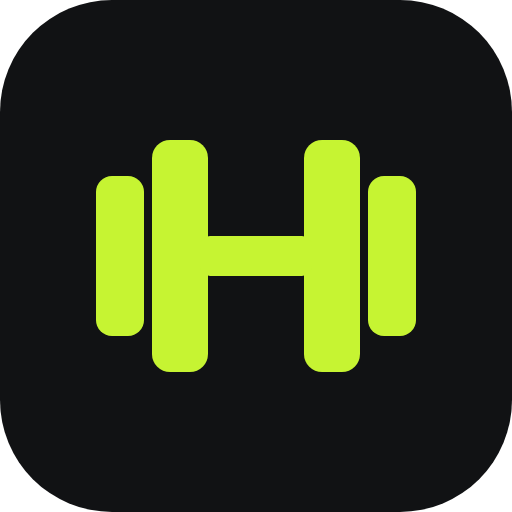
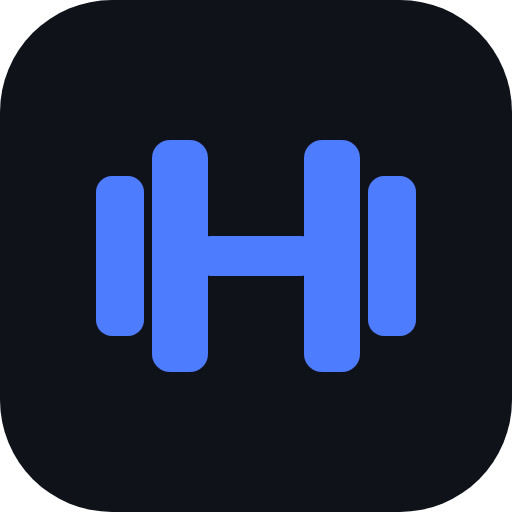
In-page confirm sheet, copy/paste backup, plate-blue theme
Claude-Session: https://claude.ai/code/session_01Xs3YzuM1HKXDTgwHDwdw5Y

Changed region(s): [[0.1875, 0.25, 0.8125, 0.75]]

diff --git a/index.html b/index.html
@@ -3,7 +3,7 @@
 <head>
 <meta charset="utf-8">
 <meta name="viewport" content="width=device-width, initial-scale=1, viewport-fit=cover">
-<meta name="theme-color" content="#111214">
+<meta name="theme-color" content="#0f1218">
 <meta name="apple-mobile-web-app-capable" content="yes">
 <meta name="mobile-web-app-capable" content="yes">
 <meta name="apple-mobile-web-app-status-bar-style" content="black-translucent">
@@ -13,27 +13,38 @@
 <link rel="icon" href="icon.svg" type="image/svg+xml">
 <link rel="apple-touch-icon" href="icon-192.png">
 <style>
+  /* Layout: one thumb-driven column, bottom tab bar, sets as big tap rows.
+     Accent borrows the blue of a 20 kg competition plate. Dark-first. */
   :root {
-    --bg: #111214;
-    --surface: #1b1d21;
-    --surface-2: #24272c;
-    --line: #2f333a;
-    --text: #eceef1;
-    --muted: #8b919b;
-    --accent: #c6f432;
-    --accent-ink: #151a00;
-    --done: #2e3b12;
+    --bg: #0f1218;
+    --surface: #171b23;
+    --surface-2: #1f2430;
+    --line: #2a3140;
+    --text: #e8ecf3;
+    --muted: #8a93a5;
+    --accent: #4d7cff;
+    --accent-ink: #ffffff;
+    --done: #1a2748;
     --danger: #ff6b5e;
+    --scrim: rgba(5, 8, 14, 0.6);
     --radius: 14px;
     --tap: 48px;
+    color-scheme: dark;
   }
   @media (prefers-color-scheme: light) {
     :root:not([data-theme="dark"]) {
-      --bg: #f4f4f1; --surface: #ffffff; --surface-2: #ececE7; --line: #dcdcd5;
-      --text: #16181b; --muted: #6a6f77; --accent: #4f6b00; --accent-ink: #ffffff; --done: #e6efcc;
+      --bg: #f3f5f9; --surface: #ffffff; --surface-2: #e9edf4; --line: #d6dce7;
+      --text: #121722; --muted: #5f6878; --accent: #2457e6; --accent-ink: #ffffff; --done: #dde6ff;
+      --danger: #d23a2c; --scrim: rgba(18, 23, 34, 0.35); color-scheme: light;
     }
   }
+  :root[data-theme="light"] {
+    --bg: #f3f5f9; --surface: #ffffff; --surface-2: #e9edf4; --line: #d6dce7;
+    --text: #121722; --muted: #5f6878; --accent: #2457e6; --accent-ink: #ffffff; --done: #dde6ff;
+    --danger: #d23a2c; --scrim: rgba(18, 23, 34, 0.35); color-scheme: light;
+  }
   * { box-sizing: border-box; }
+  [hidden] { display: none !important; }
   html, body { margin: 0; background: var(--bg); color: var(--text); }
   body {
     font: 16px/1.4 ui-sans-serif, system-ui, -apple-system, "Segoe UI", Roboto, sans-serif;
@@ -43,21 +54,26 @@
   .num { font-variant-numeric: tabular-nums; }
   header {
     position: sticky; top: 0; z-index: 5;
-    padding: calc(12px + env(safe-area-inset-top)) 16px 12px;
+    padding-top: calc(12px + env(safe-area-inset-top, 0px)); padding-bottom: 12px;
+    padding-left: max(16px, env(safe-area-inset-left, 0px)); padding-right: max(16px, env(safe-area-inset-right, 0px));
     background: color-mix(in srgb, var(--bg) 88%, transparent);
     backdrop-filter: blur(10px);
     display: flex; align-items: baseline; justify-content: space-between; gap: 12px;
   }
   header h1 { margin: 0; font-size: 22px; letter-spacing: -0.02em; }
   header .meta { color: var(--muted); font-size: 14px; }
-  main { padding: 4px 16px 24px; max-width: 640px; margin: 0 auto; }
+  main {
+    padding-block: 4px 24px; max-width: 640px; margin: 0 auto;
+    padding-left: max(16px, env(safe-area-inset-left, 0px)); padding-right: max(16px, env(safe-area-inset-right, 0px));
+  }
 
   /* Bottom tab bar — thumb reachable */
   nav.tabs {
     position: fixed; left: 0; right: 0; bottom: 0; z-index: 10;
     display: grid; grid-template-columns: repeat(4, 1fr);
     background: var(--surface); border-top: 1px solid var(--line);
-    padding-bottom: env(safe-area-inset-bottom);
+    padding-bottom: env(safe-area-inset-bottom, 0px);
+    padding-left: env(safe-area-inset-left, 0px); padding-right: env(safe-area-inset-right, 0px);
   }
   nav.tabs button {
     appearance: none; border: 0; background: none; color: var(--muted);
@@ -149,6 +165,15 @@
     opacity: 0; transition: opacity .2s; pointer-events: none; z-index: 20; white-space: nowrap;
   }
   .toast.show { opacity: 1; }
+  .sheet-scrim { position: fixed; inset: 0; z-index: 30; background: var(--scrim); display: grid; align-items: end; }
+  .sheet {
+    background: var(--surface); border-top: 1px solid var(--line); border-radius: 18px 18px 0 0;
+    padding: 20px max(16px, env(safe-area-inset-right, 0px)) calc(16px + env(safe-area-inset-bottom, 0px)) max(16px, env(safe-area-inset-left, 0px));
+    display: grid; gap: 10px; max-width: 640px; width: 100%; margin: 0 auto;
+  }
+  .sheet p { margin: 0 0 6px; font-size: 17px; }
+  button:focus-visible, .day:focus-visible { outline: 2px solid var(--accent); outline-offset: 2px; }
+  @media (prefers-reduced-motion: reduce) { * { transition: none !important; } }
   code { background: var(--surface-2); padding: 1px 5px; border-radius: 6px; font-size: 14px; }
 </style>
 </head>
@@ -166,6 +191,13 @@
   <button data-tab="data"><svg viewBox="0 0 24 24" fill="none" stroke="currentColor" stroke-width="2" stroke-linecap="round"><path d="M12 4v11M7 10l5 5 5-5M5 20h14"/></svg>Data</button>
 </nav>
 <div class="toast" id="toast" role="status" aria-live="polite"></div>
+<div class="sheet-scrim" id="sheet" hidden>
+  <div class="sheet" role="dialog" aria-modal="true" aria-labelledby="sheetMsg">
+    <p id="sheetMsg"></p>
+    <button class="btn primary block" id="sheetOk">OK</button>
+    <button class="btn ghost block" id="sheetCancel">Cancel</button>
+  </div>
+</div>
 
 <script>
 /* ==========================================================================
@@ -427,14 +459,14 @@ function toggleSet(ei, si) {
   });
 }
 
-function finishWorkout() {
+async function finishWorkout() {
   const a = db.active;
   const exercises = a.exercises
     .map(e => ({ name: e.name, sets: e.sets.filter(s => s.done).map(({ w, r }) => ({ w: +w || 0, r: +r || 0 })) }))
     .filter(e => e.sets.length);
 
   if (!exercises.length) {
-    if (!confirm("No sets ticked. Discard this workout?")) return;
+    if (!(await ask("No sets ticked yet. Discard this workout?", "Discard"))) return;
     update(d => { d.active = null; });
     return;
   }
@@ -599,13 +631,17 @@ function viewData() {
     <p class="muted small">Only changes the label — numbers aren't converted.</p>
 
     <h2>Backup</h2>
-    <p class="muted small">Everything is stored on this device only. Export a backup now and then,
+    <p class="muted small">Everything is stored in this browser only. Back up now and then,
       especially before clearing browser data or switching phones.</p>
     <div style="display:grid; gap:10px">
-      <button class="btn primary block" data-action="export">Export backup (.json)</button>
-      <button class="btn block" data-action="import">Import backup</button>
+      <button class="btn primary block" data-action="copy-backup">Copy backup</button>
+      <button class="btn block" data-action="export">Download backup file</button>
+      <button class="btn block" data-action="import">Restore from file</button>
       <input type="file" id="importFile" accept="application/json,.json" hidden>
     </div>
+    <h2>Restore from text</h2>
+    <textarea id="restoreText" class="notes" spellcheck="false" placeholder="Paste a copied backup here"></textarea>
+    <button class="btn block" style="margin-top:10px; width:100%" data-action="restore-text">Restore pasted backup</button>
 
     <h2>Danger zone</h2>
     <button class="btn ghost danger block" data-action="reset">Erase all data</button>
@@ -631,10 +667,11 @@ $app.addEventListener("click", e => {
     case "remove-set": update(d => { d.active.exercises[ei].sets.pop(); }); break;
     case "finish": finishWorkout(); break;
     case "discard":
-      if (confirm("Discard this workout? Nothing will be saved.")) update(d => { d.active = null; });
+      ask("Discard this workout? Nothing will be saved.", "Discard").then(ok => ok && update(d => { d.active = null; }));
       break;
     case "delete-session":
-      if (confirm("Delete this workout from history?")) update(d => { d.sessions = d.sessions.filter(s => s.id !== el.dataset.id); });
+      ask("Delete this workout from history?", "Delete").then(ok => ok &&
+        update(d => { d.sessions = d.sessions.filter(s => s.id !== el.dataset.id); }));
       break;
     case "save-plan":
       update(d => { d.planText = ui.planDraft; }, { rerender: false });
@@ -644,10 +681,13 @@ $app.addEventListener("click", e => {
     case "units": update(d => { d.units = el.dataset.units; }); break;
     case "export": exportBackup(); break;
     case "import": document.getElementById("importFile").click(); break;
+    case "copy-backup": copyBackup(); break;
+    case "restore-text": restoreFrom(document.getElementById("restoreText").value); break;
     case "reset":
-      if (confirm("Erase ALL workouts and your plan? Export a backup first if unsure.") && confirm("Really erase everything?")) {
+      ask("Erase all workouts and reset the plan? Copy a backup first if unsure.", "Erase everything").then(ok => {
+        if (!ok) return;
         db = freshDb(); saveDb(); ui.tab = "workout"; render(); toast("All data erased");
-      }
+      });
       break;
   }
 });
@@ -681,13 +721,42 @@ $app.addEventListener("change", e => {
   if (e.target.id !== "importFile") return;
   const file = e.target.files[0];
   if (!file) return;
-  file.text().then(txt => {
-    const data = JSON.parse(txt);
-    if (!Array.isArray(data.sessions) || typeof data.planText !== "string") throw new Error("Not a Gym Tracker backup");
-    if (!confirm(`Replace current data with backup (${data.sessions.length} workouts)?`)) return;
-    db = migrate(data); saveDb(); render(); toast("Backup restored");
-  }).catch(err => toast(err.message || "Couldn't read that file"));
+  file.text().then(restoreFrom).catch(() => toast("Couldn't read that file"));
 });
+
+async function restoreFrom(text) {
+  let data;
+  try { data = JSON.parse(text); } catch { toast("That isn't valid backup text"); return; }
+  if (!Array.isArray(data.sessions) || typeof data.planText !== "string") { toast("Not a Gym Tracker backup"); return; }
+  if (!(await ask(`Replace current data with this backup (${data.sessions.length} workouts)?`, "Restore"))) return;
+  db = migrate(data); saveDb(); render(); toast("Backup restored");
+}
+
+function copyBackup() {
+  const text = JSON.stringify(db);
+  navigator.clipboard?.writeText(text).then(() => toast("Backup copied — paste it into Notes or email"))
+    .catch(() => {
+      const ta = document.getElementById("restoreText");
+      ta.value = text; ta.focus(); ta.select();
+      toast("Select all and copy the text in the box");
+    });
+}
+
+// In-page replacement for confirm(): returns a Promise<boolean>.
+// (Native dialogs are blocked in some embedded viewers, and this looks better anyway.)
+function ask(message, okLabel = "OK") {
+  const sheet = document.getElementById("sheet");
+  document.getElementById("sheetMsg").textContent = message;
+  const ok = document.getElementById("sheetOk"), cancel = document.getElementById("sheetCancel");
+  ok.textContent = okLabel;
+  sheet.hidden = false; ok.focus();
+  return new Promise(resolve => {
+    const done = v => { sheet.hidden = true; ok.onclick = cancel.onclick = sheet.onclick = null; resolve(v); };
+    ok.onclick = () => done(true);
+    cancel.onclick = () => done(false);
+    sheet.onclick = e => { if (e.target === sheet) done(false); };
+  });
+}
 
 document.getElementById("tabs").addEventListener("click", e => {
   const b = e.target.closest("button[data-tab]");
